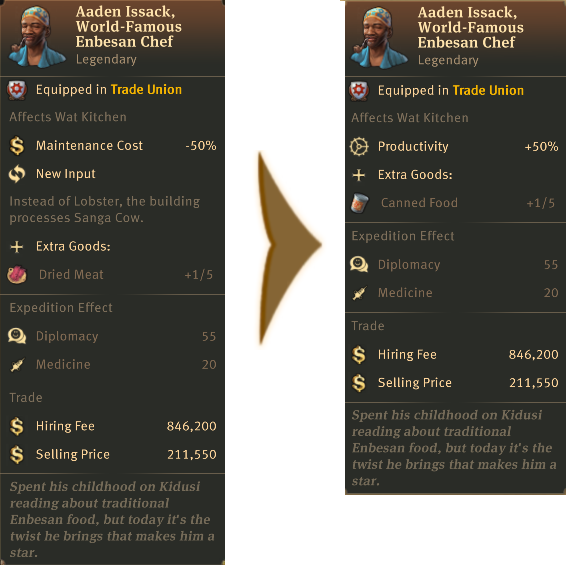
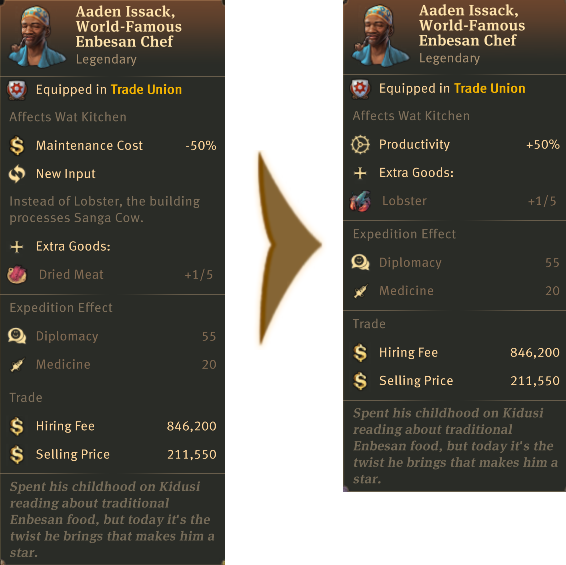
1

diff --git a/item_overhaul.md b/item_overhaul.md
@@ -8,9 +8,23 @@
   - <details><!-- Aaden Issack, World-Famous Enbesan Chef -->
     <summary><img src="./doc/job_adertisements/enbesa/icon_enbesan_cook_3b.png" alt="Alternate text" width="20" /> Aaden Issack, World-Famous Enbesan Chef</summary>
       <img src="./doc/item_overhaul/trade_union/aaden.png" alt="Alternate text" />
+      <img src="./doc/item_overhaul/trade_union/banquet.png" alt="Alternate text" />
+      <img src="./doc/item_overhaul/trade_union/cook.png" alt="Alternate text" />
+    </details>
 
-      When a population consumes Jacob's "**Sardines**", "**Canned Food**" is exchanged for it.
-      <img src="./doc/item_overhaul/trade_union/aaden_2.png" alt="Alternate text" />
+  - <details><!-- Kaldi, Infuser Of Teas -->
+    <summary><img src="./doc/job_adertisements/residence/icon_herder_3a.png" alt="Alternate text" width="20" /> Kaldi, Infuser Of Teas</summary>
+      <img src="./doc/item_overhaul/trade_union/kaldi.png" alt="Alternate text" />
+      <img src="./doc/item_overhaul/trade_union/shayi.png" alt="Alternate text" />
+      <img src="./doc/item_overhaul/trade_union/drink_seller.png" alt="Alternate text" />
+    </details>
+
+  - <details><!-- Angela "Meg" Iver, The Polyvalent -->
+    <summary><img src="./doc/job_adertisements/infrastructure/icon_craftsman_maciver.png" alt="Alternate text" width="20" /> Angela "Meg" Iver, The Polyvalent</summary>
+      <img src="./doc/item_overhaul/trade_union/angela.png" alt="Alternate text" />
+      <img src="./doc/item_overhaul/trade_union/whizz.png" alt="Alternate text" />
+      <img src="./doc/item_overhaul/trade_union/electrical.png" alt="Alternate text" />
+      <img src="./doc/item_overhaul/trade_union/magnetist.png" alt="Alternate text" />
     </details>
 
   - <details><!-- Belinda San Pedro, Head of Arcade Acquisitions -->
@@ -21,6 +35,15 @@
   - <details><!-- Brother Hilarius, Purveyor of Monastic Mixtures -->
     <summary><img src="./doc/job_adertisements/drink/icon_priest_uncommon.png" alt="Alternate text" width="20" /> Brother Hilarius, Purveyor of Monastic Mixtures</summary>
       <img src="./doc/item_overhaul/trade_union/hilarius.png" alt="Alternate text" />
+      <img src="./doc/item_overhaul/trade_union/bill.png" alt="Alternate text" />
+      <img src="./doc/item_overhaul/trade_union/brewer.png" alt="Alternate text" />
+    </details>
+
+  - <details><!-- Schnapps Distillery Items -->
+    <summary><img src="./doc/item_overhaul/trade_union/icon_schnapps_3.png" alt="Alternate text" width="20" /> Schnapps Distillery Items</summary>
+      <img src="./doc/item_overhaul/trade_union/lewis.png" alt="Alternate text" />
+      <img src="./doc/item_overhaul/trade_union/distiller.png" alt="Alternate text" />
+      <img src="./doc/item_overhaul/trade_union/moonshiner.png" alt="Alternate text" />
     </details>
 
   - <details><!-- Bruno Ironbright, Engineering Giant -->
@@ -252,11 +275,6 @@
       <img src="./doc/item_overhaul/trade_union/saw3.png" alt="Alternate text" />
       <img src="./doc/item_overhaul/trade_union/saw2.png" alt="Alternate text" />
       <img src="./doc/item_overhaul/trade_union/saw1.png" alt="Alternate text" />
-    </details>
-
-  - <details><!-- Sir Lewis Brindley, the Chemist -->
-    <summary><img src="./doc/job_adertisements/drink/icon_influencer_lewis_2.png" alt="Alternate text" width="20" /> Sir Lewis Brindley, the Chemist </summary>
-      <img src="./doc/item_overhaul/trade_union/lewis.png" alt="Alternate text" />
     </details>
 
   - <details><!-- Sluggish Surge-Wheel -->
